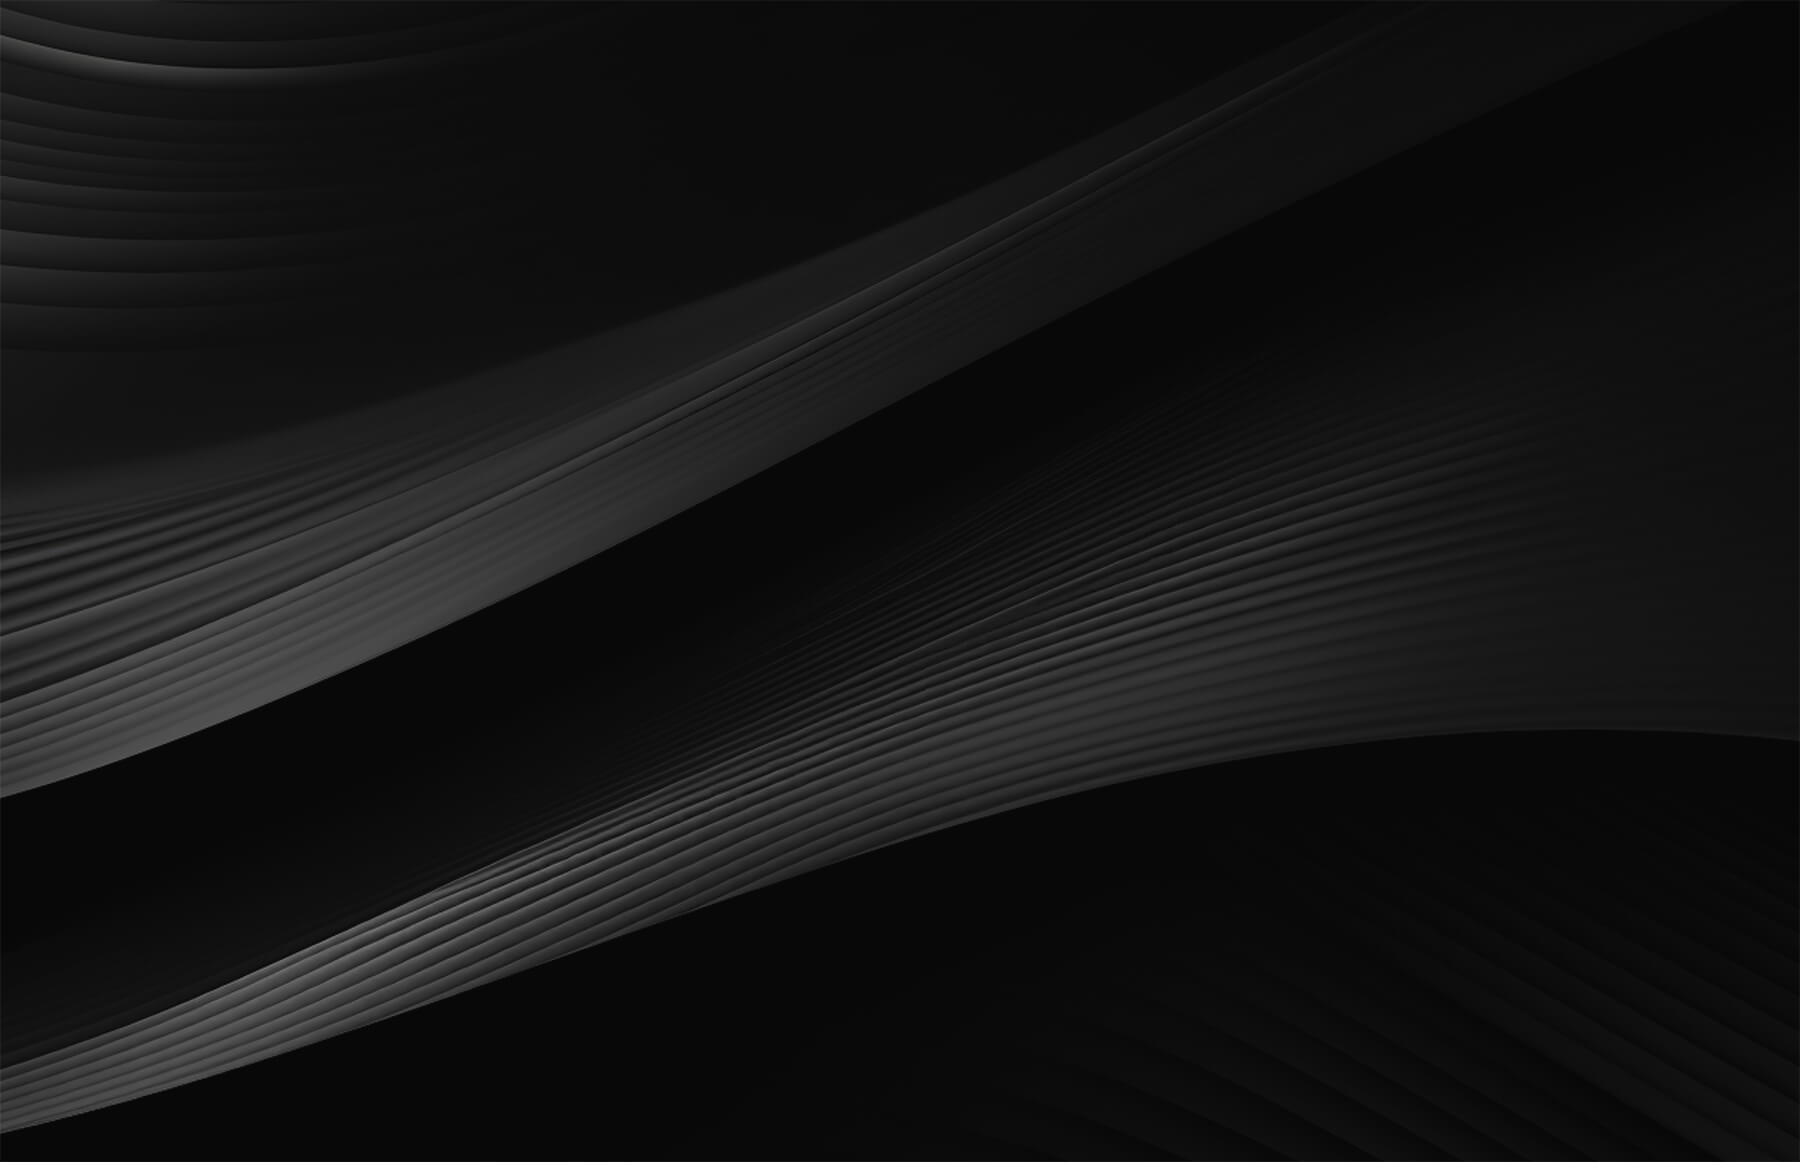
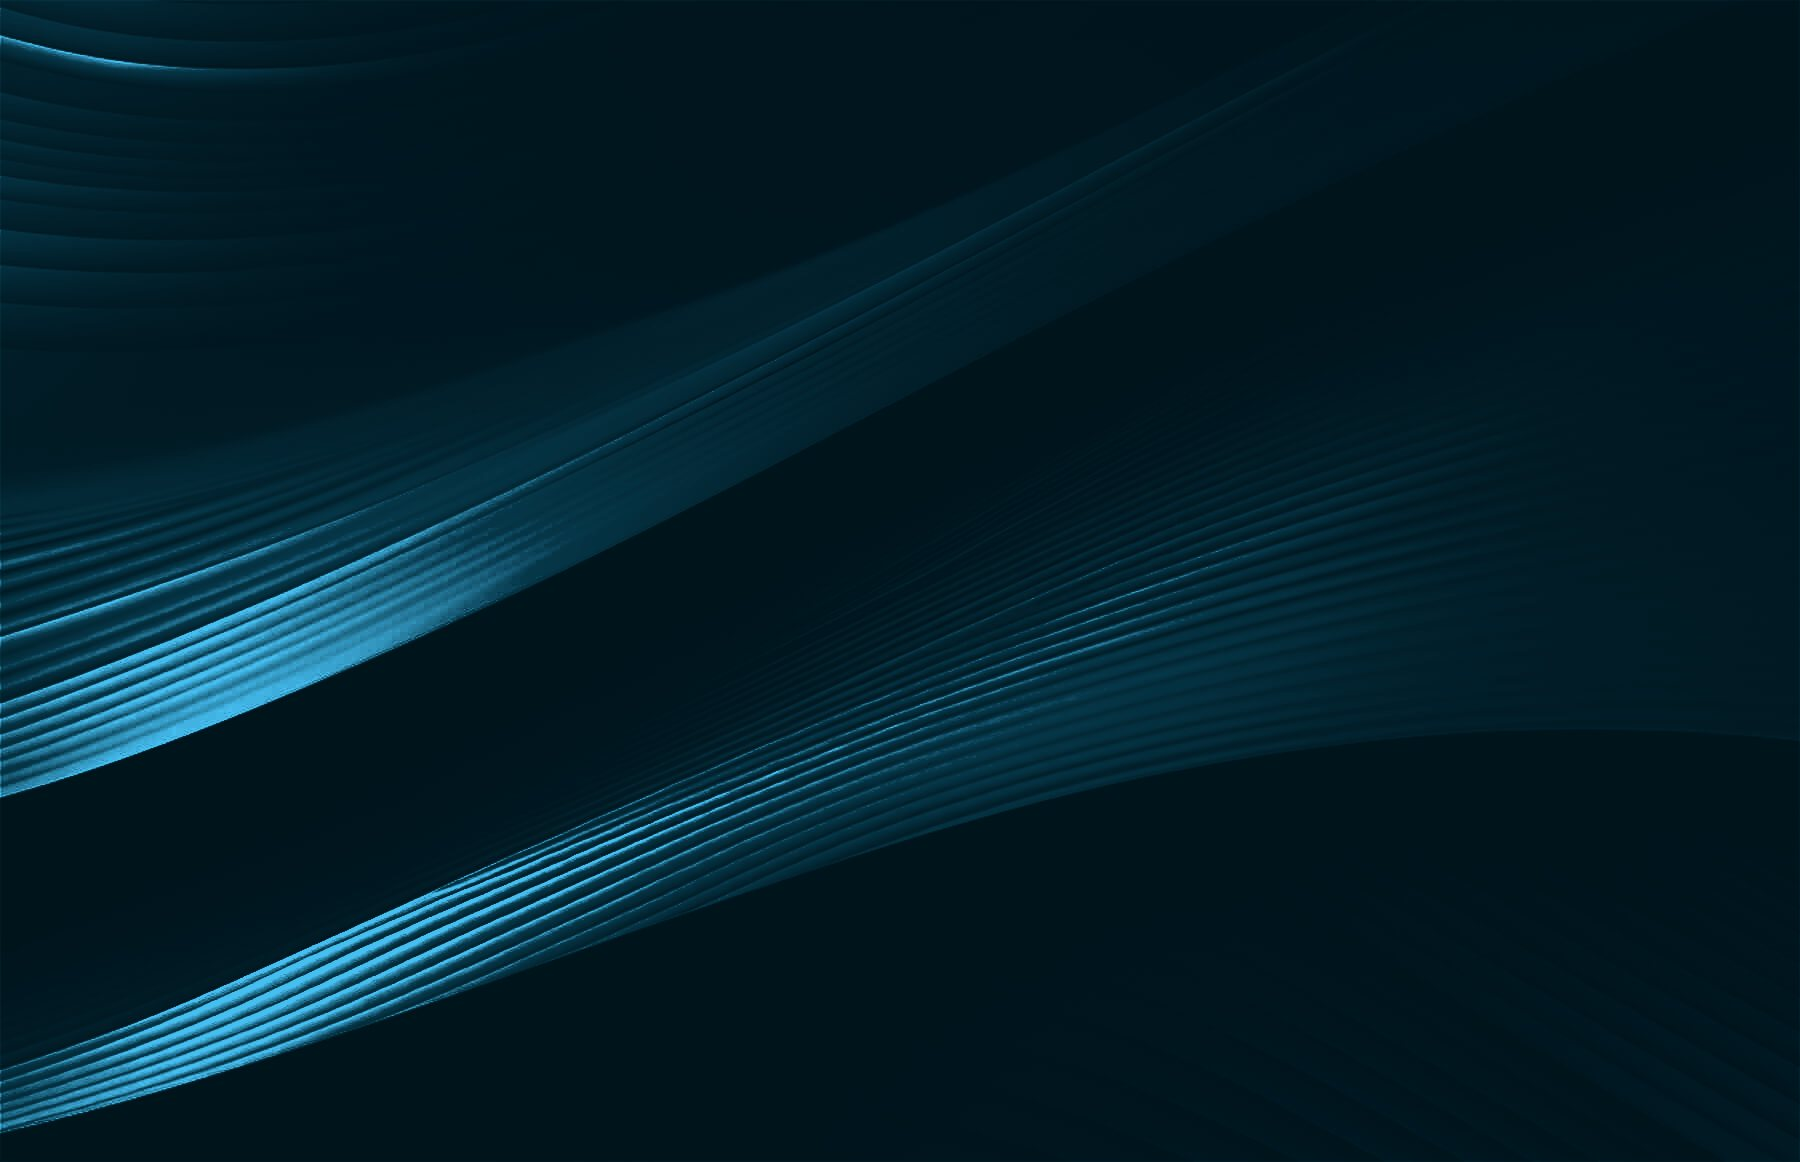
Bring back the template's background patterns; paid media titles
- Wave backgrounds recoloured navy/cyan on the stats, Who We Are, How It Works, leadership
  and FAQ panels; the floating 3D shapes are back on testimonials, both company sections
  and the team section
- Dani Twillo: Head of Paid Media. Yael Rubinson: Paid Media Manager. Creative section
  becomes The Paid Media Team

Changed region(s): [[0.0, 0.3718, 0.84, 0.9914], [0.0, 0.1239, 0.6222, 0.6816], [0.0, 0.0, 0.1867, 0.2788]]

diff --git a/src/assets/css/ez.css b/src/assets/css/ez.css
@@ -266,7 +266,7 @@ body, .page-wrapper { background: var(--ez-bg); color: var(--ez-muted); }
 
 
 /* Template section artwork is charcoal: tint it into the navy palette */
-.work-process-inner-2, .faq-inner-2, .testimonial-inner-2, .service-section-2, .footer-section .foorer-area { background-color: #062A36 !important; background-blend-mode: luminosity; }
+
 .faq-block-two .title-box, .faq-block-two .content-box { background-color: var(--ez-bg); }
 
 .ez-book__choice strong, .ez-contact-card__info strong { color: #fff !important; }
@@ -394,3 +394,11 @@ i.fa-brands, i.fab { font-family: "Font Awesome 6 Brands", "Font Awesome 5 Brand
 .ez-creative .ez-checks li { color: var(--ez-muted); font-size: 16px; }
 .ez-creative .ez-checks strong { color: #fff; }
 @media (max-width: 575.98px) { .ez-creative__names { position: static; grid-template-columns: 1fr; padding: 12px; background: var(--ez-bg-light); } }
+
+/* Patterned panels (template service-section look) and decoration stacking */
+.ez-panel { position: relative; background-size: cover; background-position: center; border-radius: 40px; }
+.ez-panel > .container, .ez-company > .container, .ez-creative > .container, .pl-reels > .container { position: relative; z-index: 5; }
+.ez-company, .ez-creative, .pl-reels { position: relative; overflow: hidden; }
+.ez-company .award-vec, .ez-company .about-shape-1, .ez-company .about-shape-2, .ez-creative .testi-vec, .pl-reels .about-vec { opacity: .75; pointer-events: none; }
+.ez-proof { margin-top: 20px; padding: 70px 0 !important; }
+.ez-panel + .ez-panel { margin-top: 30px; }
